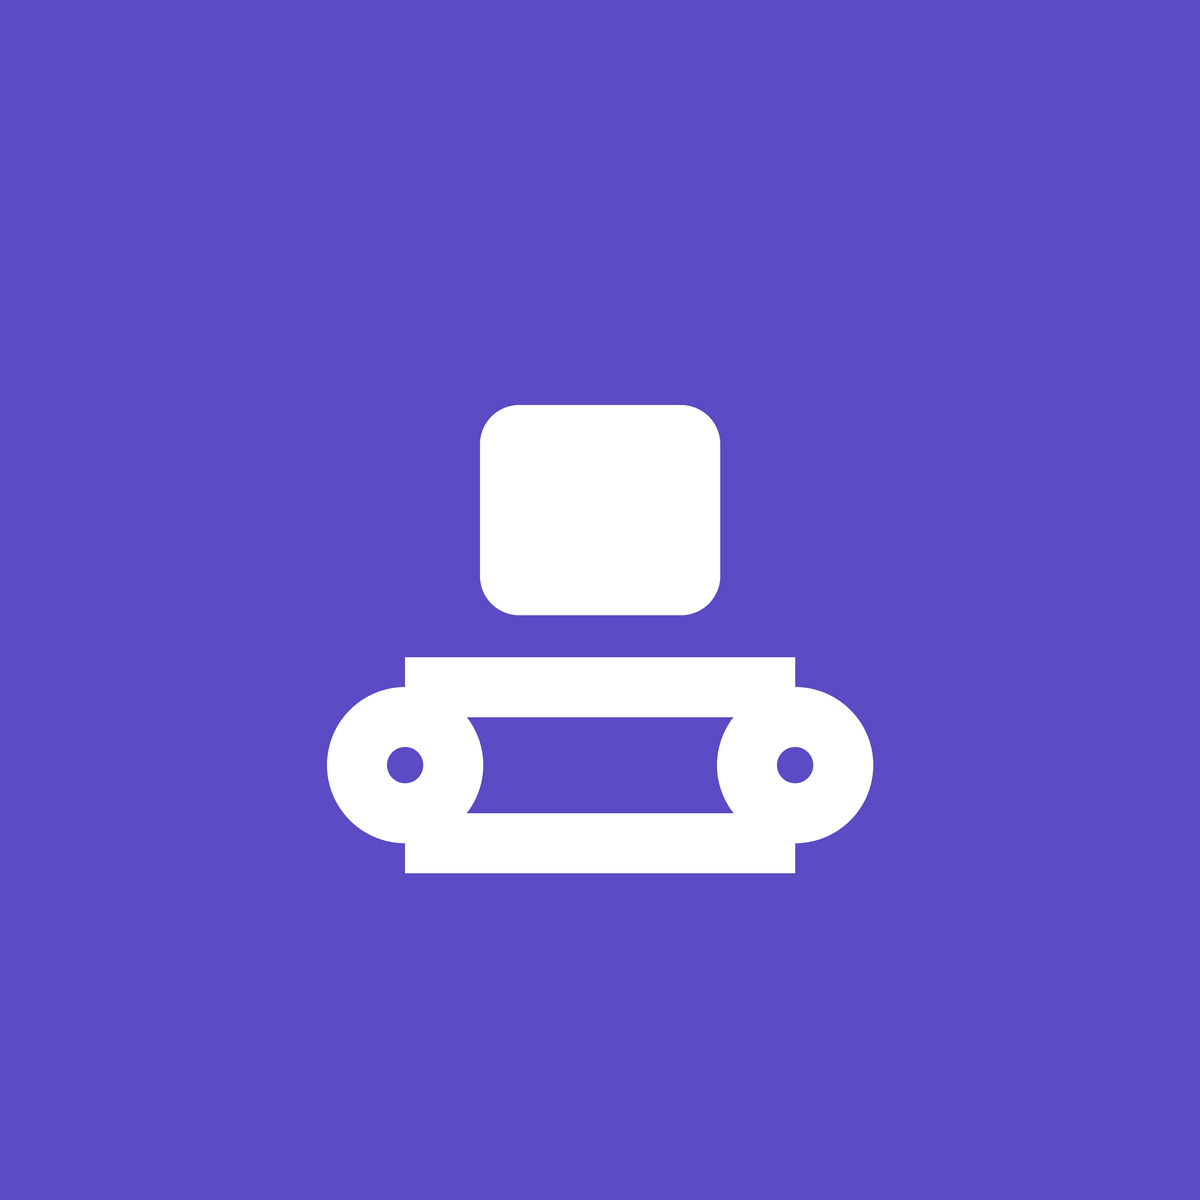
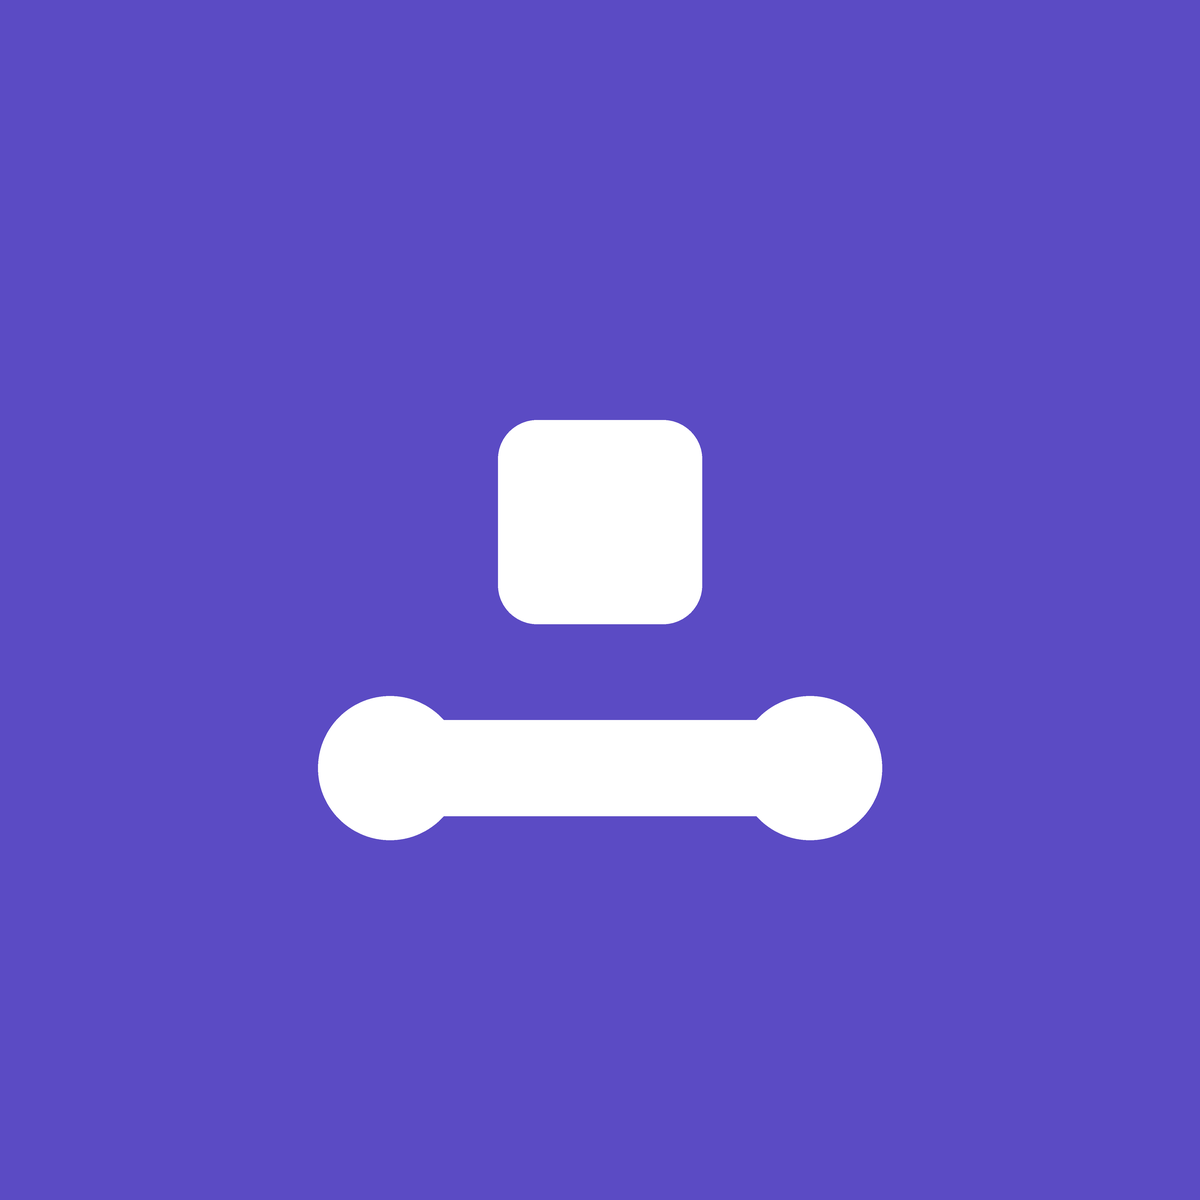
feat(marca): ícone do app, cheio em vez de contorno
A primeira versão era a marca do aplicativo escalada: roletes vazados e duas
linhas de lona. Subiu, e no tamanho real ficou ruim — os roletes encostam na
lona e o conjunto fecha numa cápsula. Em 64px vira um borrão.

Não foi suposição: gerei seis variações e comparei lado a lado em 64px, que
é o tamanho em que o ícone realmente aparece. A que funciona é a cheia —
caixa, barra e dois discos nas pontas. Os discos são o que faz ler "esteira"
em vez de "caixa em cima de uma linha"; a versão sem eles fica limpa e
genérica.

Ficam duas versões da marca, de propósito: contorno dentro do aplicativo,
onde aparece a 18px com traço fino e ainda anima durante a rodada, e cheia
no ícone. Ícone simplificado em relação à marca é o normal, não divergência.

O PNG não se edita à mão: scripts/gerar-icone.py gera 1200, 512, 128, 64 e
32 a partir da mesma definição.

diff --git a/scripts/gerar-icone.py b/scripts/gerar-icone.py
@@ -1,0 +1,42 @@
+"""Gera o ícone do Esteira: uma caixa sobre a esteira.
+
+Por que CHEIO e não contorno, como a marca dentro do aplicativo: a versão de
+contorno (roletes vazados, duas linhas de lona) funciona a 18px com traço
+fino, mas em 64px os roletes encostam na lona e o conjunto fecha numa
+cápsula — vira um borrão. Comparado lado a lado no tamanho real antes de
+escolher. Ícone simplificado em relação à marca é o normal.
+
+    python3 scripts/gerar-icone.py
+"""
+from PIL import Image, ImageDraw
+from pathlib import Path
+
+S = 4                        # desenha em 4x e reduz: bordas suaves
+LADO = 1200 * S
+ROXO = (91, 75, 196)         # #5B4BC4, o roxo do tema claro do app.
+BRANCO = (255, 255, 255)     # Não é verde/âmbar/vermelho de propósito:
+                             # essas três significam ESTADO no produto.
+
+img = Image.new("RGB", (LADO, LADO), ROXO)
+d = ImageDraw.Draw(img)
+
+GLIFO = 720 * S              # 60% do lado, deixa respiro nas bordas
+u = GLIFO / 24               # uma unidade do viewBox de 24 do app
+off = (LADO - GLIFO) / 2
+f = lambda v: off + v * u
+
+# roletes: discos nas pontas. São eles que fazem ler "esteira" em vez de
+# "caixa em cima de uma linha".
+for cx in (5.0, 19.0):
+    r = 2.4 * u
+    d.ellipse([f(cx) - r, f(17.6) - r, f(cx) + r, f(17.6) + r], fill=BRANCO)
+
+d.rounded_rectangle([f(5.0), f(16.0), f(19.0), f(19.2)], radius=1.6 * u, fill=BRANCO)
+d.rounded_rectangle([f(8.6), f(6.0), f(15.4), f(12.8)], radius=1.3 * u, fill=BRANCO)
+
+saida = Path("marca"); saida.mkdir(exist_ok=True)
+final = img.resize((1200, 1200), Image.LANCZOS)
+final.save(saida / "esteira-1200.png")
+for t in (512, 128, 64, 32):
+    final.resize((t, t), Image.LANCZOS).save(saida / f"esteira-{t}.png")
+print("marca/: " + ", ".join(sorted(p.name for p in saida.glob("*.png"))))

diff --git a/marca/LEIA.md b/marca/LEIA.md
@@ -1,0 +1,23 @@
+# A marca do Esteira
+
+Uma caixa sobre a esteira. Gerado por `scripts/gerar-icone.mjs` — nunca
+editado à mão, para não divergir.
+
+## Duas versões, de propósito
+
+**No aplicativo** (`esteira.html`, barra lateral) a marca é de **contorno**:
+roletes vazados e duas linhas de lona, que ainda animam quando a rodada
+roda. Funciona porque ali ela aparece a 18px com traço fino.
+
+**No ícone** ela é **cheia**: caixa, barra e dois discos nas pontas. A
+versão de contorno vira um borrão em 64px — os roletes encostam na lona e o
+conjunto fecha numa cápsula. Medido, não suposto: as duas foram comparadas
+lado a lado no tamanho real antes da escolha.
+
+Ícone simplificado em relação à marca é o normal, não uma inconsistência.
+
+## Cor
+
+`#5B4BC4`, o mesmo roxo do tema claro do aplicativo. Não é verde nem âmbar
+nem vermelho de propósito: essas três cores significam estado dentro do
+produto, e a marca não pode competir com elas.
